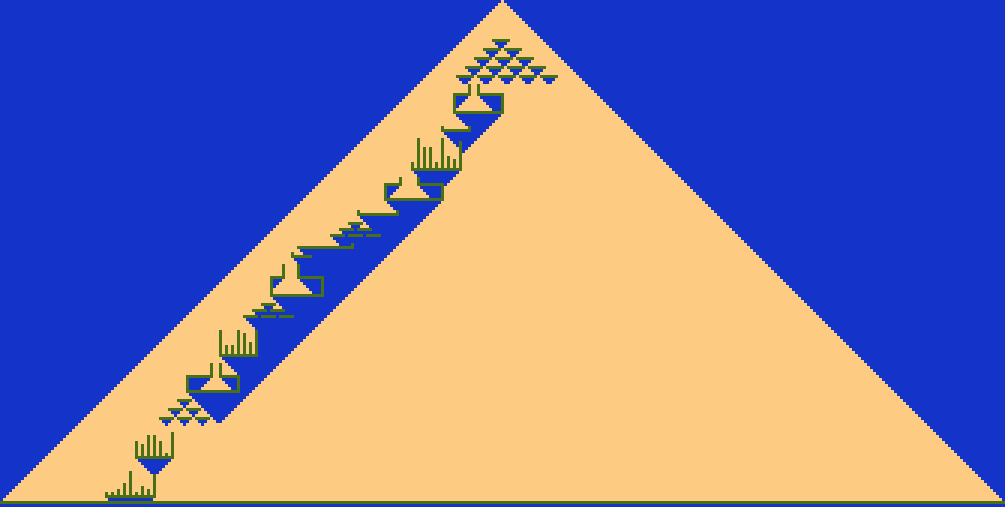
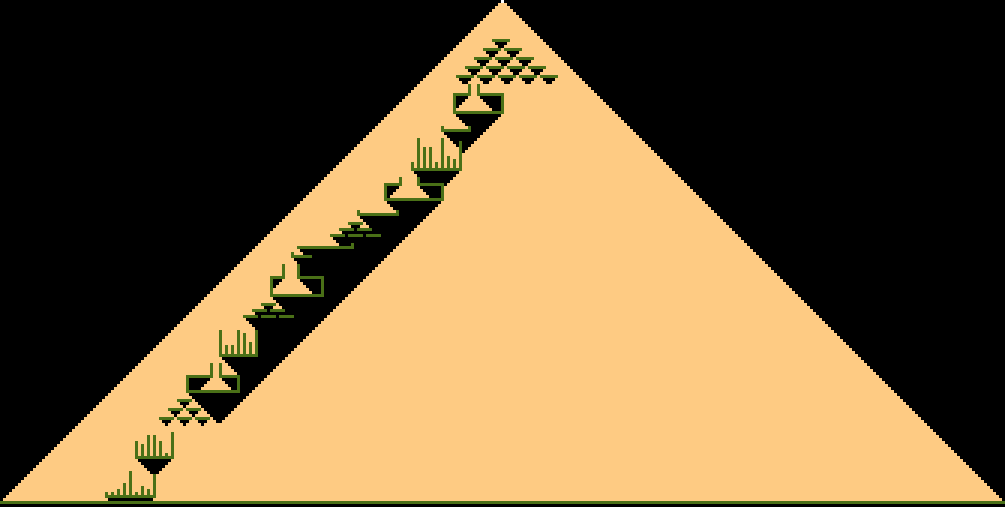
day14 viz

diff --git a/day14.py b/day14.py
@@ -1,5 +1,4 @@
 # import our helpers
-import sys
 from types import SimpleNamespace
 from utils import load, show, day, TRACE, Map, Path
 import visualizations as viz
@@ -13,16 +12,11 @@ TEXT = load(day(__file__)).splitlines()
 NS = SimpleNamespace(floor=0,minx=1000,maxx=0)
 
 ARRAY = np.zeros((200,1200), dtype="uint8") # 3D Array
-# ARRAY_SLICE = ARRAY[0:2,0:3,22:26] # 2 layers, 3 rows, 4 columns
-# ARRAY_SLICE = ARRAY[0:2,:,22:26] # 2 layers, all rows, 4 columns
-# Map(ARRAY).show()
 
 ROCK = ord("#")
-AIR = ord(".")
-_SOURCE = ord("+")
+AIR = 0
 SAND = ord("o")
 SOURCE = (500,0)
-ARRAY.fill(AIR)
 
 for line in TEXT:
     px = py = None
@@ -54,27 +48,27 @@ def parse(line):
 # PARSED = [parse(_) for _ in TEXT]
 
 ######## Part 1 ##########
-def add_grain(arr, part2=False):
+def add_grain(arr):
     x,y = SOURCE
     while True:
         left,below,right = arr[y+1,x-1:x+2]
         if below == AIR:
-            y+=1
-            if y == NS.floor: # part1 exit condition
+            y += 1
+            if y == NS.floor:    # part1 exit condition
                 return False
         elif left == AIR:
-            y+=1
-            x-=1
-            NS.minx=min(NS.minx,x)
+            x,y = x-1,y+1
+            if x < NS.minx:
+                NS.minx = x
         elif right == AIR:
-            x+=1
-            y+=1
-            NS.maxx=max(NS.maxx,x)
+            x,y = x+1,y+1
+            if x > NS.maxx:
+                NS.maxx = x
         else:
             arr[y,x] = SAND
-            if part2 and (x,y) == SOURCE:
+            if (x,y) == SOURCE:  # part2 exit condition
                 return False
-            return True
+            return True          # sand placed successfully
 
 def p1(expect=1298):
     arr = ARRAY.copy()
@@ -89,18 +83,11 @@ def p2(expect=25585):
     arr = ARRAY.copy()
     # add a floor
     arr[NS.floor,:] = ROCK
-    while add_grain(arr,True):
+    while add_grain(arr):
         pass
     NS.p2 = arr, NS.floor, NS.minx, NS.maxx
     return np.count_nonzero(arr == SAND)
 
 if __name__ == "__main__":
     show(p1, p2)
-    array, floor, minx, maxx = NS.p1
-    m=Map(array[:floor+2,minx-1:maxx+2])
-    w,h = m.img.size
-    m.img.resize((w*3,h*3)).save(Path(__file__).parent / 'output' / 'day14a.png')
-    array, floor, minx, maxx = NS.p2
-    m=Map(array[:floor+2,minx-1:maxx+2])
-    w,h = m.img.size
-    m.img.resize((w*3,h*3)).save(Path(__file__).parent / 'output' / 'day14b.png')
+    viz.viz14(NS)

diff --git a/visualizations.py b/visualizations.py
@@ -200,8 +200,17 @@ def viz12p2(ns):
         img.putpixel((x*3+1, y*3+1), ord("P"))
     img.resize((w*9, h*9)).save("output/day12b.png")
 
-
-
+def viz14(ns):
+    array, floor, minx, maxx = ns.p1
+    array[0,500] = 1
+    m=Map(array[:floor+2,minx-1:maxx+2])
+    w,h = m.img.size
+    m.img.resize((w*3,h*3)).save("output/day14a.png")
+    array, floor, minx, maxx = ns.p2
+    array[0,500] = 1
+    m=Map(array[:floor+2,minx-1:maxx+2])
+    w,h = m.img.size
+    m.img.resize((w*3,h*3)).save("output/day14b.png")
 
 # def viz3a(counters):
 #     """stacked bar graph"""
